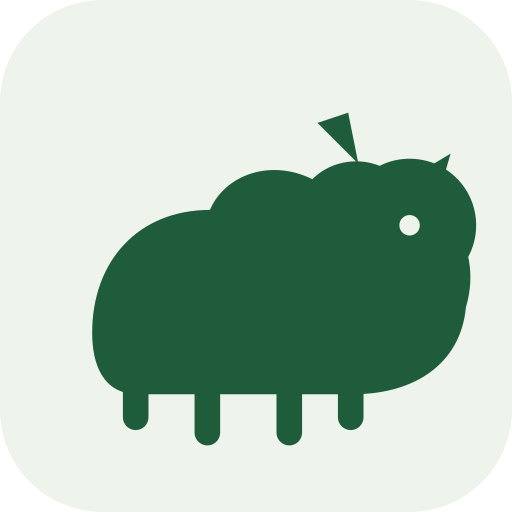
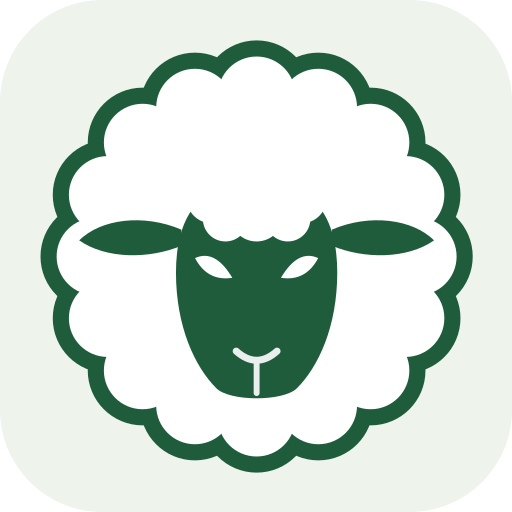
Phone UI + Icoon

Changed region(s): [[0.0625, 0.0625, 0.9375, 0.9375], [0.5312, 0.5, 0.625, 0.5625], [0.375, 0.5, 0.4688, 0.5625]]

diff --git a/src/components/icons/Sheep.tsx b/src/components/icons/Sheep.tsx
@@ -1,58 +1,95 @@
 type SheepProps = {
   className?: string;
-  width?: number;
-  height?: number;
+  /** Rendered size in px (the mark is square). */
+  size?: number;
   animate?: boolean;
   /** True for purely decorative uses (e.g. a card watermark) — hides it from assistive tech. */
   decorative?: boolean;
 };
 
+// Fleece: 16 evenly spaced puffs around a circle give the scalloped edge.
+const FLEECE_PUFFS = Array.from({ length: 16 }, (_, i) => {
+  const a = (2 * Math.PI * i) / 16;
+  return [50 + 30 * Math.cos(a), 42 + 30 * Math.sin(a)] as const;
+});
+
+// Two rows of curls over the forehead.
+const FRINGE: [cx: number, cy: number, r: number][] = [
+  [41.6, 31.2, 4.6],
+  [46.6, 29.6, 5.2],
+  [53.4, 29.6, 5.2],
+  [58.4, 31.2, 4.6],
+  [44.2, 35, 4.2],
+  [50, 34.2, 5],
+  [55.8, 35, 4.2],
+];
+
+const FACE =
+  "M50 28 C61 28 65 35 65 45 C65 55 61.5 62.5 57.5 66.5 C55 69 45 69 42.5 66.5 C38.5 62.5 35 55 35 45 C35 35 39 28 50 28 Z";
+
+// Leaf-shaped eye, drawn for the left eye at the origin; mirrored for the right.
+const EYE = "M-4.4 -0.6 Q-1.6 -3.6 3.4 0.2 Q-0.6 2.6 -4.4 -0.6 Z";
+const EYE_SLANT = 22;
+
+function Fleece() {
+  return (
+    <>
+      {FLEECE_PUFFS.map(([cx, cy]) => (
+        <circle key={`${cx.toFixed(2)}-${cy.toFixed(2)}`} cx={cx} cy={cy} r="7.2" />
+      ))}
+      <circle cx="50" cy="42" r="30" />
+    </>
+  );
+}
+
 /**
- * The one shared sheep mark. Flat, single-tone silhouette (currentColor) with
- * a single "punched" eye dot in the surface color — no gradients, no shading,
- * no overlapping fills. Every other sheep placement wraps this component;
- * `src/app/icon.svg` is a hand-kept static copy (favicons can't import a
- * component) and must be updated alongside this file.
+ * The one shared sheep mark: a dark sheep face set in a round, scalloped
+ * fleece. Two tones only — currentColor (outline, ears, face) and
+ * --color-wool (fleece and facial features, light in both themes). Every
+ * other sheep placement wraps this component. `src/app/icon.svg` is a static
+ * copy for the favicon and must be updated alongside this file, then the PNG
+ * icons regenerated (see CLAUDE.md).
  */
-export function Sheep({ className, width = 100, height = 80, animate, decorative }: SheepProps) {
+export function Sheep({ className, size = 100, animate, decorative }: SheepProps) {
   return (
     <svg
-      viewBox="0 0 100 80"
-      width={width}
-      height={height}
+      viewBox="8 0 84 84"
+      width={size}
+      height={size}
       {...(decorative ? { "aria-hidden": "true" } : { role: "img", "aria-label": "Sheep" })}
-      className={[animate ? "animate-sheep-hop" : "", className].filter(Boolean).join(" ")}
+      className={[animate ? "animate-sheep-spin" : "", className].filter(Boolean).join(" ")}
     >
-      <g fill="currentColor">
-        {/* legs */}
-        <rect x="24" y="60" width="5" height="14" rx="2.5" />
-        <rect x="38" y="63" width="5" height="14" rx="2.5" />
-        <rect x="54" y="63" width="5" height="14" rx="2.5" />
-        <rect x="66" y="60" width="5" height="14" rx="2.5" />
-
-        {/* ears */}
-        <path d="M70 22 L62 14 L68 12 Z" />
-        <path d="M78 26 L88 20 L86 27 Z" />
-
-        {/* body — a single soft-bumped silhouette, no overlapping shapes */}
-        <path
-          d="M18 55
-             C18 41 27 31 41 31
-             C44 24 53 21 61 25
-             C67 19 78 21 80 29
-             C89 30 94 40 91 50
-             C90 61 81 67 69 67
-             L27 67
-             C20 67 18 61 18 55
-             Z"
-        />
-
-        {/* head */}
-        <circle cx="80" cy="34" r="13" />
+      {/* fleece: outline pass (stroke around every puff), then the fill on top
+          hides the inner strokes so only the outer scalloped edge remains */}
+      <g fill="currentColor" stroke="currentColor" strokeWidth="6" strokeLinejoin="round">
+        <Fleece />
+      </g>
+      <g fill="var(--color-wool)">
+        <Fleece />
       </g>
 
-      {/* punched eye — the one intentional second tone */}
-      <circle cx="85" cy="30" r="2" fill="var(--color-surface)" />
+      {/* ears and face */}
+      <g fill="currentColor">
+        <path d="M36 37 C29 34 21 35 17 39 C22 42.5 30 42.5 36 40 Z" />
+        <path d="M64 37 C71 34 79 35 83 39 C78 42.5 70 42.5 64 40 Z" />
+        <path d={FACE} />
+      </g>
+
+      <g fill="var(--color-wool)">
+        {/* forehead wool */}
+        {FRINGE.map(([cx, cy, r]) => (
+          <circle key={`${cx}-${cy}`} cx={cx} cy={cy} r={r} />
+        ))}
+        {/* eyes, slanted up at the outer corners */}
+        <path d={EYE} transform={`translate(42.4 44.5) rotate(${EYE_SLANT})`} />
+        <path d={EYE} transform={`translate(57.6 44.5) rotate(${-EYE_SLANT}) scale(-1 1)`} />
+      </g>
+
+      {/* nose: one bow, with a line down to the chin */}
+      <g fill="none" stroke="var(--color-wool)" strokeLinecap="round" opacity="0.9">
+        <path d="M46.2 59.6 Q50 63 53.8 59.6" strokeWidth="1.3" />
+        <path d="M50 61.3 L50 67.4" strokeWidth="1.1" />
+      </g>
     </svg>
   );
 }

diff --git a/src/app/globals.css b/src/app/globals.css
@@ -29,6 +29,8 @@
   --color-tag-green: #008300;
   --color-tag-violet: #4a3aa7;
   --color-tag-red: #e34948;
+
+  --color-wool: #ffffff; /* sheep mark wool, stays light in dark mode too */
 }
 
 @theme inline {
@@ -53,6 +55,7 @@
   --color-tag-green: var(--color-tag-green);
   --color-tag-violet: var(--color-tag-violet);
   --color-tag-red: var(--color-tag-red);
+  --color-wool: var(--color-wool);
   --font-sans: var(--font-geist-sans);
   --font-mono: var(--font-geist-mono);
 }
@@ -85,6 +88,8 @@
     --color-tag-green: #008300;
     --color-tag-violet: #9085e9;
     --color-tag-red: #e66767;
+
+    --color-wool: #e9ece4;
   }
 }
 
@@ -135,16 +140,25 @@ textarea {
   }
 }
 
-@keyframes sheep-hop {
-  0%,
-  100% {
-    transform: translateY(0);
-  }
-  50% {
-    transform: translateY(-15%);
+@keyframes sheep-spin {
+  to {
+    transform: rotate(360deg);
   }
 }
 
-.animate-sheep-hop {
-  animation: sheep-hop 0.9s ease-in-out infinite;
+/* Loading sheep: a steady spin; slower, gentler pulse if the user prefers reduced motion. */
+.animate-sheep-spin {
+  animation: sheep-spin 1.1s linear infinite;
+}
+
+@keyframes sheep-pulse {
+  50% {
+    opacity: 0.45;
+  }
+}
+
+@media (prefers-reduced-motion: reduce) {
+  .animate-sheep-spin {
+    animation: sheep-pulse 1.6s ease-in-out infinite;
+  }
 }

diff --git a/src/components/month/BalancesCard.tsx b/src/components/month/BalancesCard.tsx
@@ -5,6 +5,7 @@ import { useState, useTransition } from "react";
 import { updateBalances, updateMonthBudget, updateRent } from "@/lib/actions/cycles";
 import { formatCurrency, parseAmount, parseSignedAmount } from "@/lib/format";
 import type { BalanceOutlook } from "@/lib/monthStats";
+import { SheepSpinner } from "@/components/icons/SheepSpinner";
 
 type BalancesCardProps = {
   cycleId: string;
@@ -171,7 +172,14 @@ export function BalancesCard({
           disabled={invalid || rentInvalid || budgetInvalid || isPending}
           className="rounded-xl bg-primary px-4 py-2.5 text-sm font-semibold text-primary-foreground disabled:opacity-50"
         >
-          {isPending ? "Saving…" : "Save"}
+          {isPending ? (
+            <span className="inline-flex items-center justify-center gap-2">
+              <SheepSpinner size={18} />
+              Saving…
+            </span>
+          ) : (
+            "Save"
+          )}
         </button>
       )}
       {error && <p className="text-sm text-critical">{error}</p>}

diff --git a/src/components/expenses/ExpenseEntryForm.tsx b/src/components/expenses/ExpenseEntryForm.tsx
@@ -7,6 +7,7 @@ import type { Category } from "@/lib/data/categories";
 import type { CategoryDto } from "@/lib/actions/categories";
 import { createExpenseFromForm, type CreateExpenseFormState } from "@/lib/actions/expenses";
 import { CategoryGrid } from "@/components/expenses/CategoryGrid";
+import { SheepSpinner } from "@/components/icons/SheepSpinner";
 import { formatCurrency, formatDate, parseAmount, toDateInputValue } from "@/lib/format";
 
 type ExpenseEntryFormProps = {
@@ -25,7 +26,14 @@ function SubmitButton({ label }: { label: string }) {
       disabled={pending}
       className="w-full rounded-xl bg-primary px-4 py-3.5 text-base font-semibold text-primary-foreground shadow-md disabled:opacity-60 sm:shadow-none"
     >
-      {pending ? "Saving…" : label}
+      {pending ? (
+        <span className="inline-flex items-center justify-center gap-2">
+          <SheepSpinner size={20} />
+          Saving…
+        </span>
+      ) : (
+        label
+      )}
     </button>
   );
 }

diff --git a/src/components/settings/NewTripForm.tsx b/src/components/settings/NewTripForm.tsx
@@ -5,6 +5,7 @@ import { useState, useTransition } from "react";
 import { createTrip } from "@/lib/actions/trips";
 import { encodePeriodKey } from "@/lib/period";
 import { parseAmount } from "@/lib/format";
+import { SheepSpinner } from "@/components/icons/SheepSpinner";
 
 export function NewTripForm() {
   const router = useRouter();
@@ -89,7 +90,14 @@ export function NewTripForm() {
         disabled={isPending}
         className="rounded-xl bg-primary px-4 py-2.5 text-sm font-semibold text-primary-foreground disabled:opacity-50"
       >
-        {isPending ? "Creating…" : "Create trip"}
+        {isPending ? (
+          <span className="inline-flex items-center justify-center gap-2">
+            <SheepSpinner size={18} />
+            Creating…
+          </span>
+        ) : (
+          "Create trip"
+        )}
       </button>
     </div>
   );

diff --git a/src/components/dashboard/SummaryCard.tsx b/src/components/dashboard/SummaryCard.tsx
@@ -24,7 +24,7 @@ const TONE_ICON: Record<SummaryCardTone, string> = {
 export function SummaryCard({ label, value, tone = "neutral", hint }: SummaryCardProps) {
   return (
     <div className="relative min-w-0 overflow-hidden rounded-xl border border-border bg-surface p-3 sm:p-4">
-      <SheepMark className="pointer-events-none absolute -right-3 -bottom-3 h-16 w-16 text-primary opacity-[0.06]" />
+      <SheepMark className="pointer-events-none absolute right-2 bottom-2 h-12 w-12 text-primary opacity-[0.08]" />
       <p className="text-xs text-ink-muted sm:text-sm">{label}</p>
       <p className={`mt-1 truncate font-mono text-lg font-semibold tabular-nums sm:text-2xl ${TONE_TEXT[tone]}`}>
         {value}

diff --git a/src/components/icons/SheepIllustration.tsx b/src/components/icons/SheepIllustration.tsx
@@ -2,16 +2,9 @@ import { Sheep } from "@/components/icons/Sheep";
 
 type SheepIllustrationProps = {
   className?: string;
-  width?: number;
-  height?: number;
+  size?: number;
 };
 
-export function SheepIllustration({
-  className,
-  width = 140,
-  height = 112,
-}: SheepIllustrationProps) {
-  return (
-    <Sheep width={width} height={height} className={["text-primary", className].filter(Boolean).join(" ")} />
-  );
+export function SheepIllustration({ className, size = 112 }: SheepIllustrationProps) {
+  return <Sheep size={size} className={["text-primary", className].filter(Boolean).join(" ")} />;
 }

diff --git a/src/components/Navigation.tsx b/src/components/Navigation.tsx
@@ -6,7 +6,7 @@ export function Navigation() {
     <header className="border-b border-border pt-[env(safe-area-inset-top)]">
       <div className="mx-auto flex max-w-3xl items-center px-4 py-3 sm:px-6 sm:py-4">
         <Link href="/" className="flex items-center gap-2 text-sm font-semibold text-foreground">
-          <SheepMark className="h-5 w-5 text-primary" />
+          <SheepMark className="h-6 w-6 text-primary" />
           Life Analytics
         </Link>
       </div>

diff --git a/src/app/budget/loading.tsx b/src/app/budget/loading.tsx
@@ -1,0 +1,15 @@
+import { SheepSpinner } from "@/components/icons/SheepSpinner";
+
+// Shown inside the budget layout (tabs stay put) while a budget page loads.
+export default function BudgetLoading() {
+  return (
+    <div
+      role="status"
+      aria-live="polite"
+      className="flex min-h-[50vh] flex-col items-center justify-center gap-3"
+    >
+      <SheepSpinner size={56} />
+      <p className="text-sm text-ink-muted">Counting sheep…</p>
+    </div>
+  );
+}

diff --git a/src/app/loading.tsx b/src/app/loading.tsx
@@ -2,8 +2,8 @@ import { SheepSpinner } from "@/components/icons/SheepSpinner";
 
 export default function Loading() {
   return (
-    <div className="flex min-h-[40vh] flex-col items-center justify-center gap-3">
-      <SheepSpinner size={48} />
+    <div role="status" aria-live="polite" className="flex min-h-[40vh] flex-col items-center justify-center gap-3">
+      <SheepSpinner size={56} />
       <p className="text-sm text-ink-muted">Loading…</p>
     </div>
   );

diff --git a/src/components/icons/SheepSpinner.tsx b/src/components/icons/SheepSpinner.tsx
@@ -7,11 +7,6 @@ type SheepSpinnerProps = {
 
 export function SheepSpinner({ className, size = 40 }: SheepSpinnerProps) {
   return (
-    <Sheep
-      width={size}
-      height={(size * 80) / 100}
-      animate
-      className={["text-primary", className].filter(Boolean).join(" ")}
-    />
+    <Sheep size={size} animate className={["text-primary", className].filter(Boolean).join(" ")} />
   );
 }
